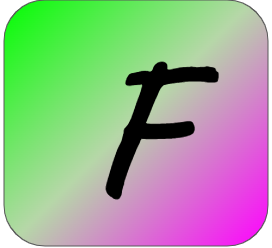
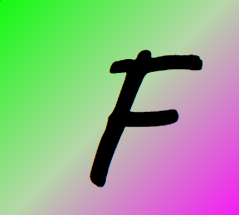
added icon_localv2

Changed region(s): [[0.0, 0.0, 1.0, 1.0], [0.3515, 0.307, 0.7615, 0.893], [0.4686, 0.2233, 0.8494, 0.3349]]

diff --git a/website/templates/base.html b/website/templates/base.html
@@ -3,11 +3,7 @@
   <head>
     <meta charset="utf-8" />
     <meta name="viewport" content="width=device-width, initial-scale=1" />
-    <link
-      rel="icon"
-      href="{{url_for('static', filename = 'ft.icon.png') }}"
-      title="f icons"
-    />
+    <link rel="icon" href="../static/ft_icon.png" title="f icons" />
     <link
       rel="stylesheet"
       href="https://stackpath.bootstrapcdn.com/bootstrap/4.4.1/css/bootstrap.min.css"
